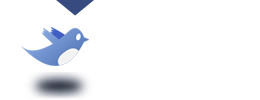
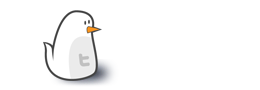
Added Twitter graphics.

Changed region(s): [[0.0923, 0.0, 0.4308, 0.9778], [0.0615, 0.4667, 0.0923, 0.4889]]

diff --git a/p3/static/p4/s/home.css b/p3/static/p4/s/home.css
@@ -390,44 +390,29 @@
 }
 
 #twitter #latest-tweet {
-/*
-    background: #222d4d url(../i/bg-twitter.png) bottom center no-repeat;
-    padding: 15px;
+    background: transparent url(../i/bg-twitter.png) top center no-repeat;
+    padding: 10px;
     
-    color: #d7cef5;
+/*     color: #d7cef5; */
     
-    -moz-border-radius: 5px; 
-    -webkit-border-radius: 5px;
-    border-radius: 5px;    
-    
-    min-height: 120px;
-    _height: 120px;
-*/
+    min-height: 135px;
+    _height: 135px;
     
 }
 
-/*
-#twitter a {
-    color: #fff;
-}
-*/
 
 
 #twitter h2 {
-/*
-    font: bold 21px/20px  "Museo", "Trebuchet MS", "Lucida Grande", "Lucida Sans", Arial, sans-serif;
-    color: #9dcc4f;
-    margin: 0 0 20px 0;
-*/
+    background: none;
+    
+    margin: 0;
 }
 
 
 #twitter #follow-us {
-/*
     background: transparent url(../i/bg-twitter-follow-us.png) top left no-repeat;
-    min-height: 100px;
-    _height: 100px;  
-*/  
+    min-height: 90px;
+    _height: 90px;    
 }
 
 
